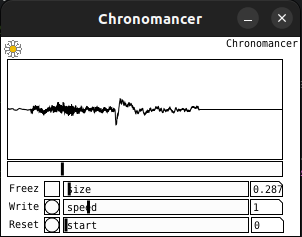
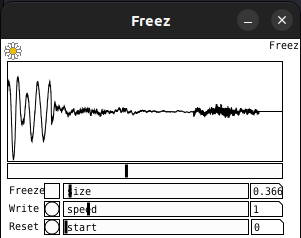
Updated Readme.md

diff --git a/README.md b/README.md
@@ -1,5 +1,5 @@
-# Chronomancer
+# Freez
 
-![Chronomancer](Chronomancer.png)
+![Freez](Freez.png)
 
 Looper / Freeze / Time Manipulation / Delay VST3 Audio Effect
